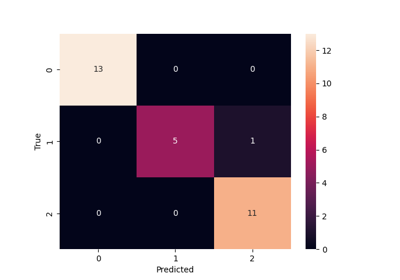
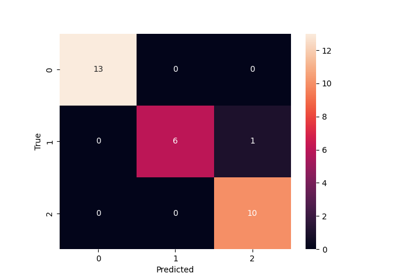
[ci skip] chore: Add uv lock file creation to pre-commit 63c3ba9890f5905ad31c35211da78430c2d574d9

Changed region(s): [[0.33, 0.3714, 0.75, 0.9143]]

diff --git a/searchindex.js b/searchindex.js
@@ -1,1 +1,1 @@
-Search.setIndex({"alltitles":{"API Reference":[[0,null]],"Computation times":[[3,null],[9,null]],"Example Gallery":[[1,null]],"Examples using icrlearn.ICRRandomForestClassifier":[[4,"examples-using-icrlearn-icrrandomforestclassifier"]],"Fitting and evaluating an ICR Random Forest":[[2,null]],"ICRRandomForestClassifier":[[4,null],[10,"icrrandomforestclassifier"]],"Predictor":[[0,"predictor"]],"User Guide":[[10,null]],"Utilities":[[0,"utilities"]],"icrlearn.utils.discovery.all_displays":[[5,null]],"icrlearn.utils.discovery.all_estimators":[[6,null]],"icrlearn.utils.discovery.all_functions":[[7,null]],"intra-class-rare-learn Documentation":[[8,null]]},"docnames":["api","auto_examples/index","auto_examples/plot_classifier","auto_examples/sg_execution_times","generated/icrlearn.ICRRandomForestClassifier","generated/icrlearn.utils.discovery.all_displays","generated/icrlearn.utils.discovery.all_estimators","generated/icrlearn.utils.discovery.all_functions","index","sg_execution_times","user_guide"],"envversion":{"sphinx":65,"sphinx.domains.c":3,"sphinx.domains.changeset":1,"sphinx.domains.citation":1,"sphinx.domains.cpp":9,"sphinx.domains.index":1,"sphinx.domains.javascript":3,"sphinx.domains.math":2,"sphinx.domains.python":4,"sphinx.domains.rst":2,"sphinx.domains.std":2,"sphinx.ext.intersphinx":1},"filenames":["api.rst","auto_examples/index.rst","auto_examples/plot_classifier.rst","auto_examples/sg_execution_times.rst","generated/icrlearn.ICRRandomForestClassifier.rst","generated/icrlearn.utils.discovery.all_displays.rst","generated/icrlearn.utils.discovery.all_estimators.rst","generated/icrlearn.utils.discovery.all_functions.rst","index.rst","sg_execution_times.rst","user_guide.rst"],"indexentries":{"all_displays() (in module icrlearn.utils.discovery)":[[5,"icrlearn.utils.discovery.all_displays",false]],"all_estimators() (in module icrlearn.utils.discovery)":[[6,"icrlearn.utils.discovery.all_estimators",false]],"all_functions() (in module icrlearn.utils.discovery)":[[7,"icrlearn.utils.discovery.all_functions",false]],"apply() (icrlearn.icrrandomforestclassifier method)":[[4,"icrlearn.ICRRandomForestClassifier.apply",false]],"calculate_rarity_scores() (icrlearn.icrrandomforestclassifier method)":[[4,"icrlearn.ICRRandomForestClassifier.calculate_rarity_scores",false]],"decision_path() (icrlearn.icrrandomforestclassifier method)":[[4,"icrlearn.ICRRandomForestClassifier.decision_path",false]],"estimators_samples_ (icrlearn.icrrandomforestclassifier property)":[[4,"icrlearn.ICRRandomForestClassifier.estimators_samples_",false]],"feature_importances_ (icrlearn.icrrandomforestclassifier property)":[[4,"icrlearn.ICRRandomForestClassifier.feature_importances_",false]],"fit() (icrlearn.icrrandomforestclassifier method)":[[4,"icrlearn.ICRRandomForestClassifier.fit",false]],"get_metadata_routing() (icrlearn.icrrandomforestclassifier method)":[[4,"icrlearn.ICRRandomForestClassifier.get_metadata_routing",false]],"get_params() (icrlearn.icrrandomforestclassifier method)":[[4,"icrlearn.ICRRandomForestClassifier.get_params",false]],"icrrandomforestclassifier (class in icrlearn)":[[4,"icrlearn.ICRRandomForestClassifier",false]],"predict() (icrlearn.icrrandomforestclassifier method)":[[4,"icrlearn.ICRRandomForestClassifier.predict",false]],"predict_log_proba() (icrlearn.icrrandomforestclassifier method)":[[4,"icrlearn.ICRRandomForestClassifier.predict_log_proba",false]],"predict_proba() (icrlearn.icrrandomforestclassifier method)":[[4,"icrlearn.ICRRandomForestClassifier.predict_proba",false]],"score() (icrlearn.icrrandomforestclassifier method)":[[4,"icrlearn.ICRRandomForestClassifier.score",false]],"set_fit_request() (icrlearn.icrrandomforestclassifier method)":[[4,"icrlearn.ICRRandomForestClassifier.set_fit_request",false]],"set_params() (icrlearn.icrrandomforestclassifier method)":[[4,"icrlearn.ICRRandomForestClassifier.set_params",false]],"set_score_request() (icrlearn.icrrandomforestclassifier method)":[[4,"icrlearn.ICRRandomForestClassifier.set_score_request",false]]},"objects":{"icrlearn":[[4,0,1,"","ICRRandomForestClassifier"]],"icrlearn.ICRRandomForestClassifier":[[4,1,1,"","apply"],[4,1,1,"","calculate_rarity_scores"],[4,1,1,"","decision_path"],[4,2,1,"","estimators_samples_"],[4,2,1,"","feature_importances_"],[4,1,1,"","fit"],[4,1,1,"","get_metadata_routing"],[4,1,1,"","get_params"],[4,1,1,"","predict"],[4,1,1,"","predict_log_proba"],[4,1,1,"","predict_proba"],[4,1,1,"","score"],[4,1,1,"","set_fit_request"],[4,1,1,"","set_params"],[4,1,1,"","set_score_request"]],"icrlearn.utils.discovery":[[5,3,1,"","all_displays"],[6,3,1,"","all_estimators"],[7,3,1,"","all_functions"]]},"objnames":{"0":["py","class","Python class"],"1":["py","method","Python method"],"2":["py","property","Python property"],"3":["py","function","Python function"]},"objtypes":{"0":"py:class","1":"py:method","2":"py:property","3":"py:function"},"terms":{"":[2,4,8],"0":[2,3,4,8,9],"00":[2,3,9],"1":[2,3,4,8,9],"100":4,"11":2,"13":2,"18":4,"2":[2,4],"2025":8,"25":8,"3":4,"30":2,"591":[2,3,9],"6":2,"83":2,"91":2,"92":2,"94":2,"96":2,"97":2,"A":[4,8],"For":4,"If":[4,6],"In":[2,4],"It":[4,8],"That":4,"The":[4,8,10],"To":8,"__":4,"accuraci":[2,4],"across":4,"actual":[5,6,7],"ad":4,"algorithm":10,"alia":4,"all":[1,4,5,6,7,9],"allow":4,"also":4,"altern":4,"an":[1,3,4,8,9],"ani":4,"annot":2,"api":8,"appli":[4,6],"ar":[4,6,8],"arrai":4,"attribut":4,"auto_exampl":3,"auto_examples_jupyt":1,"auto_examples_python":1,"avg":2,"bag":4,"base":4,"baseestim":6,"bool":4,"bootstrap":4,"brought":4,"build":4,"built":8,"calcul":4,"calculate_rarity_scor":4,"call":[4,10],"can":4,"cardin":4,"carri":4,"case":4,"ccp_alpha":4,"chang":4,"check":4,"child":4,"class":[0,4,5,6,10],"class_weight":4,"classes_":4,"classif":4,"classifi":[2,4,6],"classification_report":2,"clf":2,"cluster":6,"code":[1,2],"column":4,"compat":8,"compon":4,"comput":4,"conf_matr":2,"confus":2,"confusion_matrix":2,"consist":4,"contain":4,"convert":4,"correctli":4,"correspond":4,"crawl":6,"creat":4,"criterion":4,"csc_matrix":4,"csr":4,"csr_matrix":4,"data":[4,10],"datapoint":4,"dataset":[2,4],"date":8,"decis":4,"decision_path":4,"deep":4,"default":[4,6],"defin":6,"demonstr":8,"descript":8,"design":10,"detail":8,"dict":4,"displai":5,"download":[1,2],"drawn":4,"dtype":4,"dynam":4,"e":4,"each":4,"effect":4,"either":4,"element":4,"enable_metadata_rout":4,"encapsul":4,"end":[2,4],"ensembl":4,"equal":4,"error":4,"estim":[4,6,8],"estimators_samples_":4,"evalu":[1,3,4,9],"exampl":[2,3,5,6,7,8,9],"execut":[3,9],"exist":4,"expect":4,"f1":2,"fals":4,"featur":4,"feature_importances_":4,"fetch":4,"file":[3,9],"filter":6,"fit":[1,3,4,6,9],"float":4,"float32":4,"footprint":4,"forest":[1,3,4,9,10],"form":[4,10],"format":4,"fraction":4,"from":[2,3,4,5,6,7,9],"full":2,"function":[0,6,7],"g":4,"galleri":[2,8,9],"gener":[1,2,4],"get":[4,5,6,7],"get_metadata_rout":4,"get_param":4,"gini":4,"give":4,"given":4,"go":2,"goe":4,"guid":[0,4,8],"ha":4,"handl":[8,10],"harsh":4,"have":4,"heatmap":2,"high":4,"higher":4,"highest":4,"how":[0,4,8],"i":[0,4,5,6,7,8,10],"icr":[1,3,4,9],"icr_rf":4,"icrlearn":[2,10],"icrrandomforestclassifi":2,"identifi":4,"ignor":4,"imbal":10,"import":[2,4,5,6,7],"impur":4,"includ":6,"index":4,"indic":4,"inform":[0,4],"inherit":6,"input":4,"insid":4,"inspect":4,"instanc":4,"instead":4,"intern":4,"intra":[0,4,10],"introductori":1,"ipynb":2,"iri":2,"its":4,"jupyt":[1,2],"kind":6,"known":4,"label":4,"latter":4,"leaf":4,"learn":[0,4],"least":6,"librari":8,"like":4,"link":8,"list":[4,5,6,7],"load":2,"load_iri":[2,4],"lof":4,"log":4,"macro":2,"mai":4,"mani":4,"map":4,"mar":8,"matplotlib":2,"matrix":[2,4],"max_depth":4,"max_featur":4,"max_leaf_nod":4,"max_sampl":4,"mb":[3,9],"mean":4,"measur":4,"mechan":4,"mem":[3,9],"member":4,"memori":4,"meta":4,"metadata":4,"metadata_rout":4,"metadatarequest":4,"method":4,"metric":[2,4],"min_impurity_decreas":4,"min_samples_leaf":4,"min_samples_split":4,"min_weight_fraction_leaf":4,"minut":2,"mislead":4,"model_select":2,"modif":10,"modul":6,"monotonic_cst":4,"more":[0,4],"multi":4,"n_class":4,"n_estim":4,"n_featur":4,"n_job":4,"n_node":4,"n_nodes_ptr":4,"n_output":4,"n_sampl":4,"name":[4,5,6,7],"ndarrai":4,"neg":4,"nest":4,"net":4,"new":[8,10],"node":4,"non":4,"none":[4,6],"normal":4,"note":4,"notebook":[1,2],"np":4,"number":4,"object":4,"one":[4,6],"onli":[4,6],"oob_scor":4,"option":4,"order":4,"origin":4,"other":4,"otherwis":4,"overview":8,"p":4,"packag":[0,8,10],"param":4,"paramet":[4,6],"pass":4,"path":4,"permutation_import":4,"pipelin":4,"place":8,"pleas":4,"plot":2,"plot_classifi":[2,3,9],"plt":2,"possibl":[4,6],"precis":2,"predict":[2,4],"predict_log_proba":4,"predict_proba":4,"print":2,"probabl":4,"properti":4,"provid":[4,8,10],"py":[2,3,9],"pyplot":2,"python":[1,2],"r":4,"rais":4,"random":[1,3,4,9,10],"random_st":4,"randomforestclassifi":4,"rare":[0,10],"rariti":[4,8],"rarity_measur":4,"rarity_scor":4,"re":4,"real":4,"recal":2,"reduc":4,"reduct":4,"refer":8,"regress":4,"regressor":6,"relev":4,"repositori":8,"request":4,"requir":4,"result":4,"retain":4,"return":[4,5,6,7],"return_x_i":[2,4],"rf":4,"right":8,"root":4,"rout":4,"run":2,"same":4,"sampl":[4,10],"sample_weight":4,"scikit":4,"score":[2,4],"script":2,"seaborn":2,"search":4,"second":2,"see":4,"self":4,"set":[2,4,8],"set_config":4,"set_fit_request":4,"set_param":4,"set_score_request":4,"shape":4,"should":[4,6],"show":2,"simpl":4,"sinc":4,"singl":4,"sklearn":[2,4,8],"slower":4,"sn":2,"so":4,"some":[2,4],"sourc":[1,2,8],"spars":4,"specif":6,"sphinx":[1,2],"split":[2,4],"sqrt":4,"start":8,"store":4,"str":[4,6],"string":[5,6,7],"sub":4,"subobject":4,"subset":4,"sum":4,"support":2,"t":4,"target":4,"test":[2,4,6],"test_siz":2,"th":4,"than":4,"thei":4,"thi":[0,2,4,6,8,10],"through":4,"thu":4,"time":2,"total":[2,3,4,9],"train":[2,4],"train_test_split":2,"transform":6,"tree":4,"true":[2,4],"tupl":[5,6,7],"type":[5,6],"type_filt":6,"unchang":4,"uniqu":4,"unless":4,"up":4,"updat":4,"us":[0,8],"user":[0,4,8],"util":4,"valu":[4,6],"verbos":4,"version":[4,8],"vote":4,"w":4,"warm_start":4,"warn":4,"we":2,"weight":[2,4],"well":4,"where":[4,5,6,7],"which":[4,6],"while":4,"within":[8,10],"work":4,"would":4,"x":[2,4],"x_leav":4,"x_test":2,"x_train":2,"xlabel":2,"y":[2,4],"y_pred":2,"y_test":2,"y_train":2,"ylabel":2,"you":[4,8],"zero":4,"zip":[1,2]},"titles":["API Reference","Example Gallery","Fitting and evaluating an ICR Random Forest","Computation times","ICRRandomForestClassifier","icrlearn.utils.discovery.all_displays","icrlearn.utils.discovery.all_estimators","icrlearn.utils.discovery.all_functions","intra-class-rare-learn Documentation","Computation times","User guide : contents"],"titleterms":{"all_displai":5,"all_estim":6,"all_funct":7,"an":2,"api":0,"class":8,"comput":[3,9],"discoveri":[5,6,7],"document":8,"evalu":2,"exampl":[1,4],"fit":2,"forest":2,"galleri":1,"guid":10,"icr":2,"icrlearn":[4,5,6,7],"icrrandomforestclassifi":[4,10],"intra":8,"learn":8,"predictor":0,"random":2,"rare":8,"refer":0,"time":[3,9],"us":4,"user":10,"util":[0,5,6,7]}})
+Search.setIndex({"alltitles":{"API Reference":[[0,null]],"Computation times":[[3,null],[9,null]],"Example Gallery":[[1,null]],"Examples using icrlearn.ICRRandomForestClassifier":[[4,"examples-using-icrlearn-icrrandomforestclassifier"]],"Fitting and evaluating an ICR Random Forest":[[2,null]],"ICRRandomForestClassifier":[[4,null],[10,"icrrandomforestclassifier"]],"Predictor":[[0,"predictor"]],"User Guide":[[10,null]],"Utilities":[[0,"utilities"]],"icrlearn.utils.discovery.all_displays":[[5,null]],"icrlearn.utils.discovery.all_estimators":[[6,null]],"icrlearn.utils.discovery.all_functions":[[7,null]],"intra-class-rare-learn Documentation":[[8,null]]},"docnames":["api","auto_examples/index","auto_examples/plot_classifier","auto_examples/sg_execution_times","generated/icrlearn.ICRRandomForestClassifier","generated/icrlearn.utils.discovery.all_displays","generated/icrlearn.utils.discovery.all_estimators","generated/icrlearn.utils.discovery.all_functions","index","sg_execution_times","user_guide"],"envversion":{"sphinx":65,"sphinx.domains.c":3,"sphinx.domains.changeset":1,"sphinx.domains.citation":1,"sphinx.domains.cpp":9,"sphinx.domains.index":1,"sphinx.domains.javascript":3,"sphinx.domains.math":2,"sphinx.domains.python":4,"sphinx.domains.rst":2,"sphinx.domains.std":2,"sphinx.ext.intersphinx":1},"filenames":["api.rst","auto_examples/index.rst","auto_examples/plot_classifier.rst","auto_examples/sg_execution_times.rst","generated/icrlearn.ICRRandomForestClassifier.rst","generated/icrlearn.utils.discovery.all_displays.rst","generated/icrlearn.utils.discovery.all_estimators.rst","generated/icrlearn.utils.discovery.all_functions.rst","index.rst","sg_execution_times.rst","user_guide.rst"],"indexentries":{"all_displays() (in module icrlearn.utils.discovery)":[[5,"icrlearn.utils.discovery.all_displays",false]],"all_estimators() (in module icrlearn.utils.discovery)":[[6,"icrlearn.utils.discovery.all_estimators",false]],"all_functions() (in module icrlearn.utils.discovery)":[[7,"icrlearn.utils.discovery.all_functions",false]],"apply() (icrlearn.icrrandomforestclassifier method)":[[4,"icrlearn.ICRRandomForestClassifier.apply",false]],"calculate_rarity_scores() (icrlearn.icrrandomforestclassifier method)":[[4,"icrlearn.ICRRandomForestClassifier.calculate_rarity_scores",false]],"decision_path() (icrlearn.icrrandomforestclassifier method)":[[4,"icrlearn.ICRRandomForestClassifier.decision_path",false]],"estimators_samples_ (icrlearn.icrrandomforestclassifier property)":[[4,"icrlearn.ICRRandomForestClassifier.estimators_samples_",false]],"feature_importances_ (icrlearn.icrrandomforestclassifier property)":[[4,"icrlearn.ICRRandomForestClassifier.feature_importances_",false]],"fit() (icrlearn.icrrandomforestclassifier method)":[[4,"icrlearn.ICRRandomForestClassifier.fit",false]],"get_metadata_routing() (icrlearn.icrrandomforestclassifier method)":[[4,"icrlearn.ICRRandomForestClassifier.get_metadata_routing",false]],"get_params() (icrlearn.icrrandomforestclassifier method)":[[4,"icrlearn.ICRRandomForestClassifier.get_params",false]],"icrrandomforestclassifier (class in icrlearn)":[[4,"icrlearn.ICRRandomForestClassifier",false]],"predict() (icrlearn.icrrandomforestclassifier method)":[[4,"icrlearn.ICRRandomForestClassifier.predict",false]],"predict_log_proba() (icrlearn.icrrandomforestclassifier method)":[[4,"icrlearn.ICRRandomForestClassifier.predict_log_proba",false]],"predict_proba() (icrlearn.icrrandomforestclassifier method)":[[4,"icrlearn.ICRRandomForestClassifier.predict_proba",false]],"score() (icrlearn.icrrandomforestclassifier method)":[[4,"icrlearn.ICRRandomForestClassifier.score",false]],"set_fit_request() (icrlearn.icrrandomforestclassifier method)":[[4,"icrlearn.ICRRandomForestClassifier.set_fit_request",false]],"set_params() (icrlearn.icrrandomforestclassifier method)":[[4,"icrlearn.ICRRandomForestClassifier.set_params",false]],"set_score_request() (icrlearn.icrrandomforestclassifier method)":[[4,"icrlearn.ICRRandomForestClassifier.set_score_request",false]]},"objects":{"icrlearn":[[4,0,1,"","ICRRandomForestClassifier"]],"icrlearn.ICRRandomForestClassifier":[[4,1,1,"","apply"],[4,1,1,"","calculate_rarity_scores"],[4,1,1,"","decision_path"],[4,2,1,"","estimators_samples_"],[4,2,1,"","feature_importances_"],[4,1,1,"","fit"],[4,1,1,"","get_metadata_routing"],[4,1,1,"","get_params"],[4,1,1,"","predict"],[4,1,1,"","predict_log_proba"],[4,1,1,"","predict_proba"],[4,1,1,"","score"],[4,1,1,"","set_fit_request"],[4,1,1,"","set_params"],[4,1,1,"","set_score_request"]],"icrlearn.utils.discovery":[[5,3,1,"","all_displays"],[6,3,1,"","all_estimators"],[7,3,1,"","all_functions"]]},"objnames":{"0":["py","class","Python class"],"1":["py","method","Python method"],"2":["py","property","Python property"],"3":["py","function","Python function"]},"objtypes":{"0":"py:class","1":"py:method","2":"py:property","3":"py:function"},"terms":{"":[2,4,8],"0":[2,3,4,8,9],"00":[2,3,9],"1":[2,3,4,8,9],"10":2,"100":4,"13":2,"18":4,"2":[2,4],"2025":8,"25":8,"3":4,"30":2,"596":[2,3,9],"7":2,"86":2,"91":2,"92":2,"95":2,"96":2,"97":2,"A":[4,8],"For":4,"If":[4,6],"In":[2,4],"It":[4,8],"That":4,"The":[4,8,10],"To":8,"__":4,"accuraci":[2,4],"across":4,"actual":[5,6,7],"ad":4,"algorithm":10,"alia":4,"all":[1,4,5,6,7,9],"allow":4,"also":4,"altern":4,"an":[1,3,4,8,9],"ani":4,"annot":2,"api":8,"appli":[4,6],"ar":[4,6,8],"arrai":4,"attribut":4,"auto_exampl":3,"auto_examples_jupyt":1,"auto_examples_python":1,"avg":2,"bag":4,"base":4,"baseestim":6,"bool":4,"bootstrap":4,"brought":4,"build":4,"built":8,"calcul":4,"calculate_rarity_scor":4,"call":[4,10],"can":4,"cardin":4,"carri":4,"case":4,"ccp_alpha":4,"chang":4,"check":4,"child":4,"class":[0,4,5,6,10],"class_weight":4,"classes_":4,"classif":4,"classifi":[2,4,6],"classification_report":2,"clf":2,"cluster":6,"code":[1,2],"column":4,"compat":8,"compon":4,"comput":4,"conf_matr":2,"confus":2,"confusion_matrix":2,"consist":4,"contain":4,"convert":4,"correctli":4,"correspond":4,"crawl":6,"creat":4,"criterion":4,"csc_matrix":4,"csr":4,"csr_matrix":4,"data":[4,10],"datapoint":4,"dataset":[2,4],"date":8,"decis":4,"decision_path":4,"deep":4,"default":[4,6],"defin":6,"demonstr":8,"descript":8,"design":10,"detail":8,"dict":4,"displai":5,"download":[1,2],"drawn":4,"dtype":4,"dynam":4,"e":4,"each":4,"effect":4,"either":4,"element":4,"enable_metadata_rout":4,"encapsul":4,"end":[2,4],"ensembl":4,"equal":4,"error":4,"estim":[4,6,8],"estimators_samples_":4,"evalu":[1,3,4,9],"exampl":[2,3,5,6,7,8,9],"execut":[3,9],"exist":4,"expect":4,"f1":2,"fals":4,"featur":4,"feature_importances_":4,"fetch":4,"file":[3,9],"filter":6,"fit":[1,3,4,6,9],"float":4,"float32":4,"footprint":4,"forest":[1,3,4,9,10],"form":[4,10],"format":4,"fraction":4,"from":[2,3,4,5,6,7,9],"full":2,"function":[0,6,7],"g":4,"galleri":[2,8,9],"gener":[1,2,4],"get":[4,5,6,7],"get_metadata_rout":4,"get_param":4,"gini":4,"give":4,"given":4,"go":2,"goe":4,"guid":[0,4,8],"ha":4,"handl":[8,10],"harsh":4,"have":4,"heatmap":2,"high":4,"higher":4,"highest":4,"how":[0,4,8],"i":[0,4,5,6,7,8,10],"icr":[1,3,4,9],"icr_rf":4,"icrlearn":[2,10],"icrrandomforestclassifi":2,"identifi":4,"ignor":4,"imbal":10,"import":[2,4,5,6,7],"impur":4,"includ":6,"index":4,"indic":4,"inform":[0,4],"inherit":6,"input":4,"insid":4,"inspect":4,"instanc":4,"instead":4,"intern":4,"intra":[0,4,10],"introductori":1,"ipynb":2,"iri":2,"its":4,"jupyt":[1,2],"kind":6,"known":4,"label":4,"latter":4,"leaf":4,"learn":[0,4],"least":6,"librari":8,"like":4,"link":8,"list":[4,5,6,7],"load":2,"load_iri":[2,4],"lof":4,"log":4,"macro":2,"mai":4,"mani":4,"map":4,"mar":8,"matplotlib":2,"matrix":[2,4],"max_depth":4,"max_featur":4,"max_leaf_nod":4,"max_sampl":4,"mb":[3,9],"mean":4,"measur":4,"mechan":4,"mem":[3,9],"member":4,"memori":4,"meta":4,"metadata":4,"metadata_rout":4,"metadatarequest":4,"method":4,"metric":[2,4],"min_impurity_decreas":4,"min_samples_leaf":4,"min_samples_split":4,"min_weight_fraction_leaf":4,"minut":2,"mislead":4,"model_select":2,"modif":10,"modul":6,"monotonic_cst":4,"more":[0,4],"multi":4,"n_class":4,"n_estim":4,"n_featur":4,"n_job":4,"n_node":4,"n_nodes_ptr":4,"n_output":4,"n_sampl":4,"name":[4,5,6,7],"ndarrai":4,"neg":4,"nest":4,"net":4,"new":[8,10],"node":4,"non":4,"none":[4,6],"normal":4,"note":4,"notebook":[1,2],"np":4,"number":4,"object":4,"one":[4,6],"onli":[4,6],"oob_scor":4,"option":4,"order":4,"origin":4,"other":4,"otherwis":4,"overview":8,"p":4,"packag":[0,8,10],"param":4,"paramet":[4,6],"pass":4,"path":4,"permutation_import":4,"pipelin":4,"place":8,"pleas":4,"plot":2,"plot_classifi":[2,3,9],"plt":2,"possibl":[4,6],"precis":2,"predict":[2,4],"predict_log_proba":4,"predict_proba":4,"print":2,"probabl":4,"properti":4,"provid":[4,8,10],"py":[2,3,9],"pyplot":2,"python":[1,2],"r":4,"rais":4,"random":[1,3,4,9,10],"random_st":4,"randomforestclassifi":4,"rare":[0,10],"rariti":[4,8],"rarity_measur":4,"rarity_scor":4,"re":4,"real":4,"recal":2,"reduc":4,"reduct":4,"refer":8,"regress":4,"regressor":6,"relev":4,"repositori":8,"request":4,"requir":4,"result":4,"retain":4,"return":[4,5,6,7],"return_x_i":[2,4],"rf":4,"right":8,"root":4,"rout":4,"run":2,"same":4,"sampl":[4,10],"sample_weight":4,"scikit":4,"score":[2,4],"script":2,"seaborn":2,"search":4,"second":2,"see":4,"self":4,"set":[2,4,8],"set_config":4,"set_fit_request":4,"set_param":4,"set_score_request":4,"shape":4,"should":[4,6],"show":2,"simpl":4,"sinc":4,"singl":4,"sklearn":[2,4,8],"slower":4,"sn":2,"so":4,"some":[2,4],"sourc":[1,2,8],"spars":4,"specif":6,"sphinx":[1,2],"split":[2,4],"sqrt":4,"start":8,"store":4,"str":[4,6],"string":[5,6,7],"sub":4,"subobject":4,"subset":4,"sum":4,"support":2,"t":4,"target":4,"test":[2,4,6],"test_siz":2,"th":4,"than":4,"thei":4,"thi":[0,2,4,6,8,10],"through":4,"thu":4,"time":2,"total":[2,3,4,9],"train":[2,4],"train_test_split":2,"transform":6,"tree":4,"true":[2,4],"tupl":[5,6,7],"type":[5,6],"type_filt":6,"unchang":4,"uniqu":4,"unless":4,"up":4,"updat":4,"us":[0,8],"user":[0,4,8],"util":4,"valu":[4,6],"verbos":4,"version":[4,8],"vote":4,"w":4,"warm_start":4,"warn":4,"we":2,"weight":[2,4],"well":4,"where":[4,5,6,7],"which":[4,6],"while":4,"within":[8,10],"work":4,"would":4,"x":[2,4],"x_leav":4,"x_test":2,"x_train":2,"xlabel":2,"y":[2,4],"y_pred":2,"y_test":2,"y_train":2,"ylabel":2,"you":[4,8],"zero":4,"zip":[1,2]},"titles":["API Reference","Example Gallery","Fitting and evaluating an ICR Random Forest","Computation times","ICRRandomForestClassifier","icrlearn.utils.discovery.all_displays","icrlearn.utils.discovery.all_estimators","icrlearn.utils.discovery.all_functions","intra-class-rare-learn Documentation","Computation times","User guide : contents"],"titleterms":{"all_displai":5,"all_estim":6,"all_funct":7,"an":2,"api":0,"class":8,"comput":[3,9],"discoveri":[5,6,7],"document":8,"evalu":2,"exampl":[1,4],"fit":2,"forest":2,"galleri":1,"guid":10,"icr":2,"icrlearn":[4,5,6,7],"icrrandomforestclassifi":[4,10],"intra":8,"learn":8,"predictor":0,"random":2,"rare":8,"refer":0,"time":[3,9],"us":4,"user":10,"util":[0,5,6,7]}})

diff --git a/auto_examples/plot_classifier.html b/auto_examples/plot_classifier.html
@@ -406,11 +406,11 @@ to download the full example code.</p>
 <div class="sphx-glr-script-out highlight-none notranslate"><div class="highlight"><pre><span></span>              precision    recall  f1-score   support
 
            0       1.00      1.00      1.00        13
-           1       1.00      0.83      0.91         6
-           2       0.92      1.00      0.96        11
+           1       1.00      0.86      0.92         7
+           2       0.91      1.00      0.95        10
 
     accuracy                           0.97        30
-   macro avg       0.97      0.94      0.96        30
+   macro avg       0.97      0.95      0.96        30
 weighted avg       0.97      0.97      0.97        30
 </pre></div>
 </div>
@@ -426,7 +426,7 @@ weighted avg       0.97      0.97      0.97        30
 <a href="https://matplotlib.org/stable/api/_as_gen/matplotlib.pyplot.show.html#matplotlib.pyplot.show" title="matplotlib.pyplot.show" class="sphx-glr-backref-module-matplotlib-pyplot sphx-glr-backref-type-py-function"><span class="n">plt</span><span class="o">.</span><span class="n">show</span></a><span class="p">()</span>
 </pre></div>
 </div>
-<img src="../_images/sphx_glr_plot_classifier_001.png" srcset="../_images/sphx_glr_plot_classifier_001.png" alt="plot classifier" class = "sphx-glr-single-img"/><p class="sphx-glr-timing"><strong>Total running time of the script:</strong> (0 minutes 0.591 seconds)</p>
+<img src="../_images/sphx_glr_plot_classifier_001.png" srcset="../_images/sphx_glr_plot_classifier_001.png" alt="plot classifier" class = "sphx-glr-single-img"/><p class="sphx-glr-timing"><strong>Total running time of the script:</strong> (0 minutes 0.596 seconds)</p>
 <div class="sphx-glr-footer sphx-glr-footer-example docutils container" id="sphx-glr-download-auto-examples-plot-classifier-py">
 <div class="sphx-glr-download sphx-glr-download-jupyter docutils container">
 <p><a class="reference download internal" download="" href="../_downloads/fed3e85cac62fc93e088aa8cb008d467/plot_classifier.ipynb"><code class="xref download docutils literal notranslate"><span class="pre">Download</span> <span class="pre">Jupyter</span> <span class="pre">notebook:</span> <span class="pre">plot_classifier.ipynb</span></code></a></p>

diff --git a/sg_execution_times.html b/sg_execution_times.html
@@ -359,7 +359,7 @@
                   
   <section id="computation-times">
 <span id="sphx-glr-sg-execution-times"></span><h1>Computation times<a class="headerlink" href="#computation-times" title="Link to this heading">#</a></h1>
-<p><strong>00:00.591</strong> total execution time for 1 file <strong>from all galleries</strong>:</p>
+<p><strong>00:00.596</strong> total execution time for 1 file <strong>from all galleries</strong>:</p>
 <div class="docutils container">
 <style scoped>
 <link href="https://cdnjs.cloudflare.com/ajax/libs/twitter-bootstrap/5.3.0/css/bootstrap.min.css" rel="stylesheet" />
@@ -381,7 +381,7 @@ $(document).ready( function () {
 </thead>
 <tbody>
 <tr class="row-even"><td><p><a class="reference internal" href="auto_examples/plot_classifier.html#sphx-glr-auto-examples-plot-classifier-py"><span class="std std-ref">Fitting and evaluating an ICR Random Forest</span></a> (<code class="docutils literal notranslate"><span class="pre">../examples/plot_classifier.py</span></code>)</p></td>
-<td><p>00:00.591</p></td>
+<td><p>00:00.596</p></td>
 <td><p>0.0</p></td>
 </tr>
 </tbody>

diff --git a/auto_examples/sg_execution_times.html b/auto_examples/sg_execution_times.html
@@ -359,7 +359,7 @@
                   
   <section id="computation-times">
 <span id="sphx-glr-auto-examples-sg-execution-times"></span><h1>Computation times<a class="headerlink" href="#computation-times" title="Link to this heading">#</a></h1>
-<p><strong>00:00.591</strong> total execution time for 1 file <strong>from auto_examples</strong>:</p>
+<p><strong>00:00.596</strong> total execution time for 1 file <strong>from auto_examples</strong>:</p>
 <div class="docutils container">
 <style scoped>
 <link href="https://cdnjs.cloudflare.com/ajax/libs/twitter-bootstrap/5.3.0/css/bootstrap.min.css" rel="stylesheet" />
@@ -381,7 +381,7 @@ $(document).ready( function () {
 </thead>
 <tbody>
 <tr class="row-even"><td><p><a class="reference internal" href="plot_classifier.html#sphx-glr-auto-examples-plot-classifier-py"><span class="std std-ref">Fitting and evaluating an ICR Random Forest</span></a> (<code class="docutils literal notranslate"><span class="pre">plot_classifier.py</span></code>)</p></td>
-<td><p>00:00.591</p></td>
+<td><p>00:00.596</p></td>
 <td><p>0.0</p></td>
 </tr>
 </tbody>
